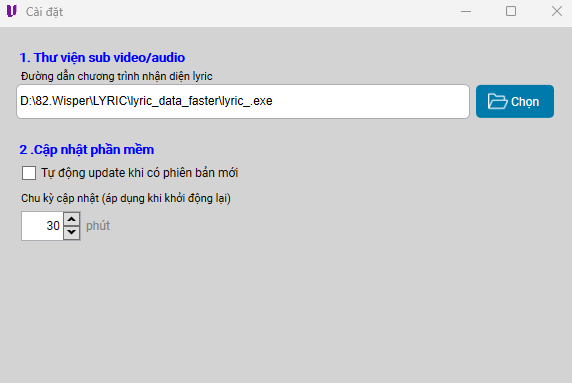
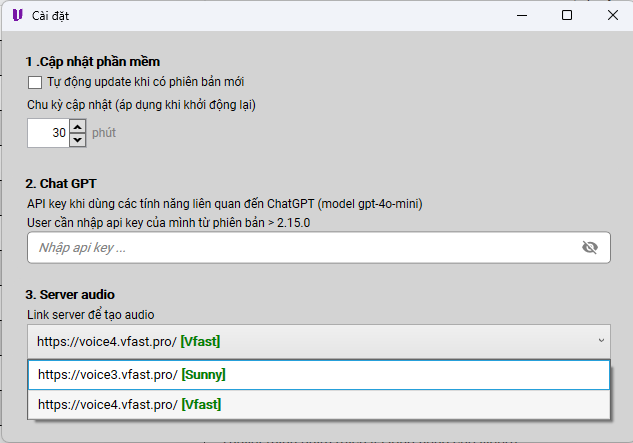
update setting, add video youtube in text2speech

diff --git a/docs/tutorial-basics/3-install-lib.md b/docs/tutorial-basics/3-install-lib.md
@@ -6,14 +6,14 @@ sidebar_position: 3
 
 Cài đặt thư viện để sử dụng đầy đủ tính năng của ứng dụng
 
-## I. Thư viện lấy lyric
+## 1. Thư viện tạo lyric
 
 Thư viện sẽ chuyển đổi *video, audio* <i class="fa-solid fa-arrow-right"></i> *text* dạng file `.srt` format
 
-1. Download
+- Download
     - Download thư viện ở **[Lyric driver](https://drive.google.com/file/d/1fbsjYrpJGJD2tYhNZSyUsWi8jmZbSeDS/view)**
     - Giải nén file vừa download (Recommend ở ổ đĩa SSD)
-2. Cài đặt
+- Cài đặt
     - Vào project bất kỳ, ở thành Menu tìm đến **Công cụ** -> **Nhận diện lyric**
     - Chọn đến file `lyric_.exe` ở thư mục vừa giải nén
 
@@ -21,15 +21,15 @@ Thư viện sẽ chuyển đổi *video, audio* <i class="fa-solid fa-arrow-righ
 
 #### *Hình 1 - Giao diện thư viện get lyric*
 
-## II. Thư viện clone audio
+## 2. Thư viện clone audio
 
-1. Download
+- Download
     - Download thư viện ở **[clone driver](https://drive.google.com/file/d/1nNkbe6iX3K-JzWOKErvDmQYR5wABDBMM/view)**
     - Giải nén file vừa download (Recommend ở ổ đĩa SSD)
-2. Cài đặt
+- Cài đặt
     - Vào project bất kỳ, ở thành Menu tìm đến **Công cụ** -> **Voice clone**
     - Chọn đến thư mục vừa giải nén
-3. Thêm các giọng clone
+- Thêm các giọng clone
     - Tải các giọng clone ở dạng file `.zip` ở các link sau **[web](https://voice-models.com/)** hoặc **[model driver](https://drive.google.com/drive/folders/1ur5F2J7mP2g6AAdrJde96UPxywDLQOs7)**
     - Sau khi download xong, vào cửa sổ vừa mở (hình 2), nhấn **Thêm** và chọn đến các đường dẫn file vừa download
     - Chọn ngôn ngữ của giọng vừa download và sửa tên phù hợp để dễ dàng sử dụng
@@ -38,10 +38,10 @@ Thư viện sẽ chuyển đổi *video, audio* <i class="fa-solid fa-arrow-righ
 
 #### *Hình 2 - Giao diện thư viện voice clone*
 
-## III. Thư viện tách vocal
+## 3. Thư viện tách vocal
 
-1. Cài đặt
-    - Vào project bất kỳ, ở thành Menu tìm đến **Công cụ** -> **Tách vocal**
+- Cài đặt
+    - Vào project bất kỳ hoặc ở của sổ lúc mới đăng nhập, ở thành Menu tìm đến **Công cụ** -> **Tách vocal**
     - Cửa sổ tách vocal hiện ra (hình 3), vào **Công cụ** -> **Cài đặt manual**
     - Chương trình sẽ ghi xuống 1 file `remove_vocal.bat` vào máy tính
     - Mở terminal tại thư mục, gõ tên `remove_vocal.bat` và Enter

diff --git a/docs/tutorial-basics/6-review-manga.md b/docs/tutorial-basics/6-review-manga.md
@@ -10,12 +10,12 @@ Tạo video từ ảnh của 1 chap *truyện tranh* hoặc ảnh bất kỳ
 
 #### *Hình 1 - Giao diện review truyện tranh*
 
-## I. Edit item
-    1. Add item
+## I. Tạo item
+###    1. Add item
         - Menu **Công cụ** -> **Thêm item**
             - Nhập số lượng item cần thêm
             - Click OK
-    2. Text
+###     2. Text
         - Click vào từng item ở bảng list item
         - Tạo text
             - Lấy text từ ảnh (nhập thủ công *hoặc* nhận diện text bằng AI)
@@ -25,7 +25,7 @@ Tạo video từ ảnh của 1 chap *truyện tranh* hoặc ảnh bất kỳ
     *P/s: Sau khi dịch, bạn cần review lại bản dịch để confirm lại*
 
 ## II. Edit ảnh
-    1. Vẽ khung chat
+###     1. Vẽ khung chat
         - Ở hình 1, click vào item cần edit
         - Click **Vẽ khung chat**
 
@@ -44,9 +44,9 @@ Tạo video từ ảnh của 1 chap *truyện tranh* hoặc ảnh bất kỳ
 
 ## III. Tạo audio
 
-    1. Tải audio
+###     1. Tải audio
         - Click vào item ở hình 1, ở trường **Chọn giọng TTK**, click vào ⋮ và áp dụng cho *tất cả* hoặc chọn *các item* tùy ý
-        - Chọn clone nếu như bạn muốn custome sang 1 giọng khác
+        - Chọn clone nếu như bạn muốn custom sang 1 giọng khác
         - Menu **Audio** -> **Download Audio**
         - Tải audio: bạn có thể chọn tốc độ phù hợp với nhu cầu của mình để download
 
@@ -55,17 +55,17 @@ Tạo video từ ảnh của 1 chap *truyện tranh* hoặc ảnh bất kỳ
         **Hình 3 - Cửa sổ download audio**
 
 ## IV. Export video
-    1. Chọn hiệu ứng cho từng ảnh
+###     1. Chọn hiệu ứng cho từng ảnh
         - None
         - Left slide
         - Right slide
         - Zoom
         - Scroll
         - ...
-    2. Setting
+###     2. Setting
         - Chọn background, opacity
         - Chọn nhạc nền, âm lượng
-    3. Export
+###     3. Export
         - Chọn sử dụng GPU hoặc không
         - ~~Tách vocal~~ (không khả dụng ở template này)
 

diff --git a/docs/intro.md b/docs/intro.md
@@ -6,37 +6,43 @@ sidebar_position: 1
 
 Hãy khám phá các bước cơ bản để làm việc với app VMVA.
 
-## Đăng nhập
+## 1. Đăng nhập
 
 Tạo tài khoản và sử dụng
 
 - Bạn cần có tài khoản để sử dụng app
 - Mỗi tài khoản chỉ đăng nhập được trên 1 máy tính
 
-## Tạo project
+## 2. Tạo project
 
 Tạo project để làm việc
 
 - B1. Đặt tên project, chọn nơi lưu và chọn template tương ứng
 
-- B2. Làm theo hướng dẫn trong từng template vào export video hoặc audio
+- B2. Làm theo hướng dẫn trong từng template, sau đó export video hoặc audio
 
-## Cài đặt thư viện
+:::tip
+Có thể run nhiều project cùng 1 lúc
+:::
+
+## 3. Cài đặt thư viện
 
 Các thư viện cần thiết để chạy project full tính năng
 
-- Thư viện generate lyric -> speech 2 text
-- Thư viện voice clone -> clone giọng nói
-- Thư viện tách vocal
+- Thư viện generate lyric <i class="fa-solid fa-arrow-right"></i> speech 2 text
+- Thư viện voice clone <i class="fa-solid fa-arrow-right"></i> clone giọng nói
+- Thư viện tách vocal <i class="fa-solid fa-arrow-right"></i> tách vocal và instrument
+- Thêm api key của ChatGPT (model gpt-4.1-mini)
+- Chọn server tạo audio
 
-## Các tính năng chính
+## 4. Các tính năng chính
 
  1. Thuyết minh phim
  2. Review truyện tranh, truyện chữ
  3. Viết lại kịch bản theo phong cách tùy chỉnh
  4. Tạo giọng nói từ text, có thể clone theo giọng bất kỳ
  5. Làm lyric cho video
- 6. Anti CR
+ 6. Thêm mặt nạ, zoom cho video mobile (9:16) <i class="fa-solid fa-arrow-right"></i> thành video 16:9
 
 :::tip
 Bạn có thể mở đồng thời nhiều `instance` để làm việc với nhiều project cùng 1 lúc

diff --git a/docs/tutorial-basics/1-login.md b/docs/tutorial-basics/1-login.md
@@ -10,28 +10,30 @@ Sử dụng **user, password** và **computer id** máy để đăng nhập
 - Đăng nhập
 - P/s: mỗi tài khoản chỉ dùng được ở trên 1 máy tính
 
-
-
-## I. Nhập thông tin
-
-Dùng **user** và **password** để đăng nhập
-
-- B0 - Nếu chưa có tài khoản, click vào **Đăng ký tài khoản**, lấy computer id để đăng kí
-- B1 - Nhập user, password
-- B2 - Nhấn **Đăng nhập**
-
-![Login](/img/authen/login.png)
-
-#### *Hình 1 - Giao diện đăng nhập app*
-
-
-## II. Đăng ký tài khoản
+## 1. Đăng ký tài khoản
 
 Là mã đại diện cho thiết bị <i class="fa-solid fa-key"></i>
-- B1 - Click vào *đăng ký tài khoản*, một cửa sổ hiện như hình 2
+- B1 - Click vào *đăng ký tài khoản* (hình 2), một cửa sổ hiện như hình 1
 - B2 - Bạn hãy copy mã này và gửi cho admin
 
 
 ![ComputerId](/img/authen/computer-id.png)
 
-#### *Hình 2 - Giao diện lấy mã thiết bị <i class="fa-solid fa-key"></i>*
+#### *Hình 1 - Giao diện lấy mã thiết bị <i class="fa-solid fa-key"></i>*
+
+## 2. Nhập thông tin và đăng nhập
+
+Dùng **user** và **password** để đăng nhập
+
+- B1 - Nhập user, password
+- B2 - Nhấn **Đăng nhập**
+
+![Login](/img/authen/login.png)
+
+#### *Hình 2 - Giao diện đăng nhập app*
+
+
+:::note
+- App sẽ tự động lưu thông tin user, password (ở máy tính của bạn, có mã hóa và không chia sẻ với bất kỳ ai)
+- App sẽ tự động lưu phiên đăng nhập (mặc định trong vòng 7 ngày)
+:::

diff --git a/docs/tutorial-extras/1-advance-setup.md b/docs/tutorial-extras/1-advance-setup.md
@@ -12,10 +12,10 @@ Công cụ -> Cài đặt render video
 
 - Video encoder: h264 (render bằng *cpu* hoặc các *gpu* mà ffmpeg support)
 - Audio encoder: aac hoặc ac3
-- video/audio bitrate
-- framerate: 25, 30(fps)
-- audio sample rate
-- audio channel
+- Video/audio bitrate
+- Framerate: 25, 30(fps)
+- Audio sample rate
+- Audio channel (1,2)
 
 ![RenderVideo](/img/extra/render-video.png)
 
@@ -26,19 +26,23 @@ Công cụ -> Cài đặt render video
 
 Công cụ -> Quản lý asset
 
-- Thêm,xóa background image
-- Thêm,xóa background audio
+- Thêm, xóa hình nền <i class="fa-solid fa-images"></i>
+- Thêm, xóa nhạc nền <i class="fa-solid fa-music"></i>
 
 ![ManageAsset](/img/extra/manage-asset.png)
 
 #### *Hình 2 - Cửa sổ quản lý asset*
 
 
-## III. Quản lý chung
+## III. Cài đặt chung
 
 Công cụ -> Cài đặt chung
 
-- Cài đặt thời gian app check phiên bản mới
+- Cài đặt thời gian <i class="fa-solid fa-clock"></i> app check phiên bản mới
+- Nhập api key <i class="fa-solid fa-key"></i> cho ChatGPT khi sử dụng các tính năng liên quan
+- Chọn link server <i class="fa-solid fa-cloud"></i> tạo audio
+    - Các bạn ở Sunny thì chọn server **Sunny**
+    - Các bạn ở Vfast hoặc cty khác thì chọn server **Vfast**
 
 ![CommonSetup](/img/extra/common-setup.png)
 

diff --git a/docs/tutorial-basics/8-rewrite-ai.md b/docs/tutorial-basics/8-rewrite-ai.md
@@ -13,9 +13,9 @@ Viết lại câu chuyện theo góc nhìn, phong cách khác
 ## I. Tạo subtitle
 
 Là bước cần thiết để có thể viết lại
-1. Tạo tự động
+### 1. Tạo tự động
     - Click vào menu **Lyric gốc** -> **Tạo tự động**
-2. Tạo thủ cộng
+### 2. Tạo thủ công
     - Click vào menu **Lyric gốc** -> **Tải lyric từ máy tính**
         
 
@@ -30,10 +30,10 @@ Là bước cần thiết để có thể viết lại
     *Hình 2 - Cửa sổ sửa thêm style*
 
 ## III. Viết lại
-    1. Viết lại
+###     1. Viết lại
         - Ở mục 2, click vào menu **Công cụ** -> **Viết lại**
         - Có thể dịch sang ngôn ngữ khác hoặc copy sang bản dịch
-    2. Download audio
+###     2. Download audio
         - Click vào item ở hình 1 (mục 2), ở trường **Chọn giọng TTK**, click vào ⋮ và áp dụng cho *tất cả* hoặc chọn *các item* tùy ý
         - Có thể chọn giọng clone
         - Download audio

diff --git a/docs/tutorial-basics/7-lyric.md b/docs/tutorial-basics/7-lyric.md
@@ -4,7 +4,7 @@ sidebar_position: 7
 
 # Tạo video lyric
 
-Làm lyric cho video, audio
+Làm lyric cho video, audio và custom font chữ
 
 ![Lyric](/img/lyric/lyric-ui.png)
 
@@ -12,10 +12,10 @@ Làm lyric cho video, audio
 
 ## I. Tạo subtitle
 
-    1. Tạo tự động
+###     1. Tạo tự động
         - Chọn ngôn ngữ của video
         - Click vào button **Generate**
-    2. Upload từ máy tính
+###     2. Upload từ máy tính
         - Click vào menu **Lyric** <i class="fa-solid fa-arrow-right"></i> **Upload lyric**
 
 :::note

diff --git a/docs/tutorial-basics/5-thuyet-minh.md b/docs/tutorial-basics/5-thuyet-minh.md
@@ -67,7 +67,7 @@ Sau khi dịch, bạn cần review lại bản dịch để confirm lại
 **Hình 3 - Cửa sổ export video**
 
 
-## III. Ví dụ
+## III. Ví dụ ngắn
 
 
 <iframe width="560" height="315"
